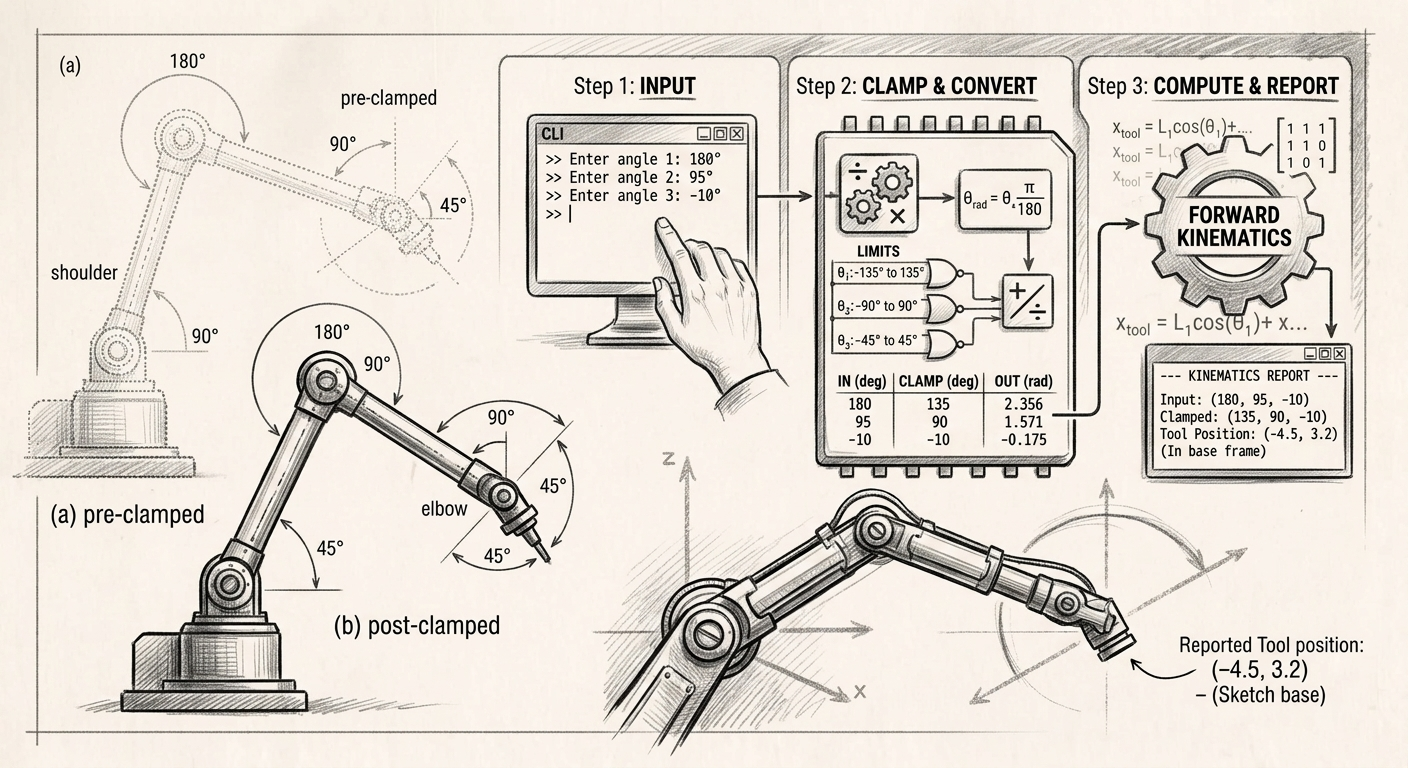
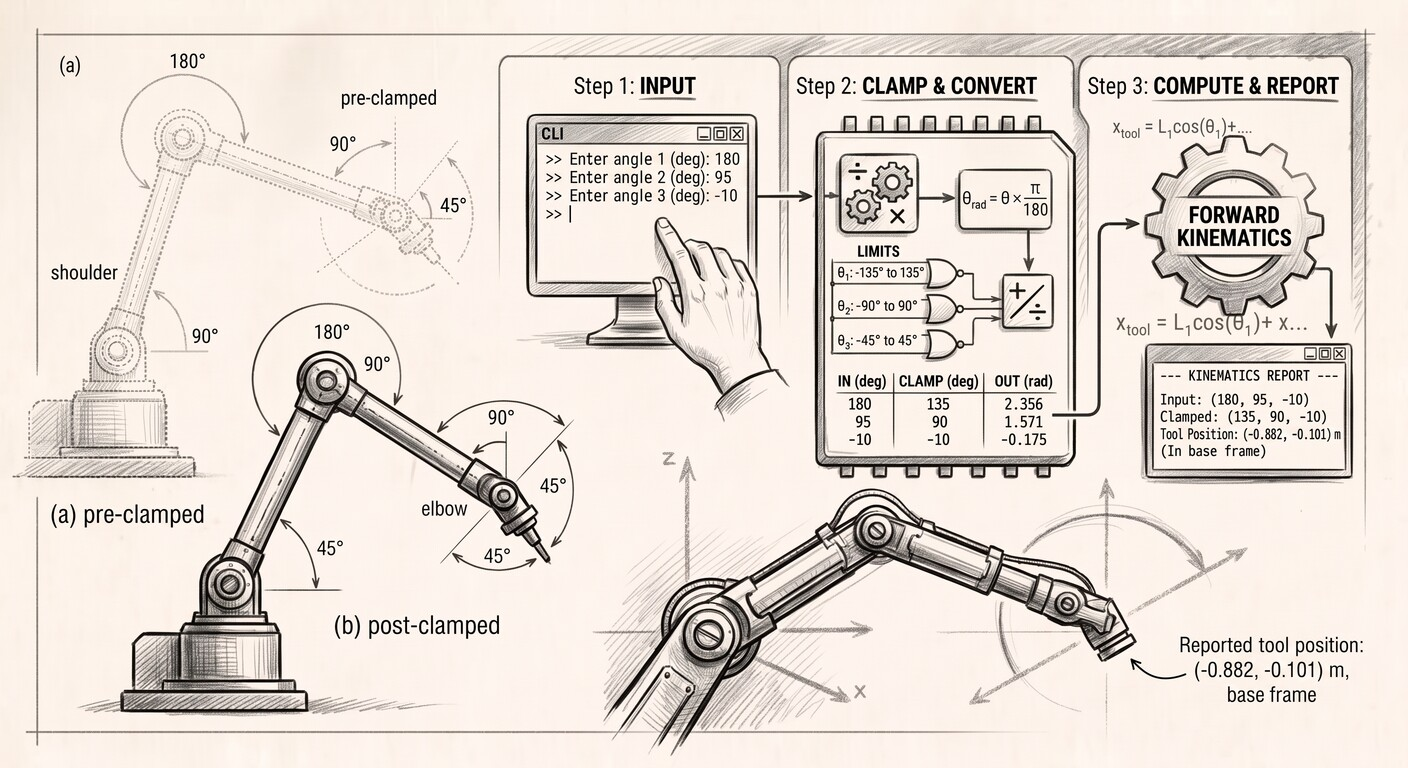
Use the corrected Lecture 5 overview figure
The tool position now matches what arm_demo prints, (-0.882, -0.101) m, and the alt text follows it.

diff --git a/docs/source/lectures/lecture5/l5_lecture.rst b/docs/source/lectures/lecture5/l5_lecture.rst
@@ -36,7 +36,7 @@ The Program We Will Build
 ^^^^^^^^^^^^^^^^^^^^^^^^^
 
 .. figure:: /_static/images/l5/narrative.jpeg
-   :alt: Pencil sketch of the program in three steps. On the left, a robot arm with three joints is drawn twice, (a) before clamping and (b) after clamping, with its joint angles marked. Step 1, Input: a terminal where the user enters the angles 180, 95 and minus 10 degrees. Step 2, Clamp and Convert: each angle is checked against its joint limit and converted to radians. A table shows 180 clamped to 135 (2.356 rad), 95 clamped to 90 (1.571 rad), and minus 10 kept as minus 10 (minus 0.175 rad). Step 3, Compute and Report: a forward kinematics gear produces a report with the tool position (minus 4.5, 3.2) in the base frame, which is also marked at the tip of the arm below.
+   :alt: Pencil sketch of the program in three steps. On the left, a robot arm with three joints is drawn twice, (a) before clamping and (b) after clamping, with its joint angles marked. Step 1, Input: a terminal where the user enters the angles 180, 95 and minus 10 degrees. Step 2, Clamp and Convert: each angle is checked against its joint limit (theta 1 from minus 135 to 135 degrees, theta 2 from minus 90 to 90, theta 3 from minus 45 to 45) and converted to radians by multiplying by pi over 180. A table shows 180 clamped to 135 (2.356 rad), 95 clamped to 90 (1.571 rad), and minus 10 kept as minus 10 (minus 0.175 rad). Step 3, Compute and Report: a forward kinematics gear produces a report with the tool position (minus 0.882, minus 0.101) metres in the base frame, which is also marked at the tip of the arm below.
    :align: center
    :width: 90%
 
